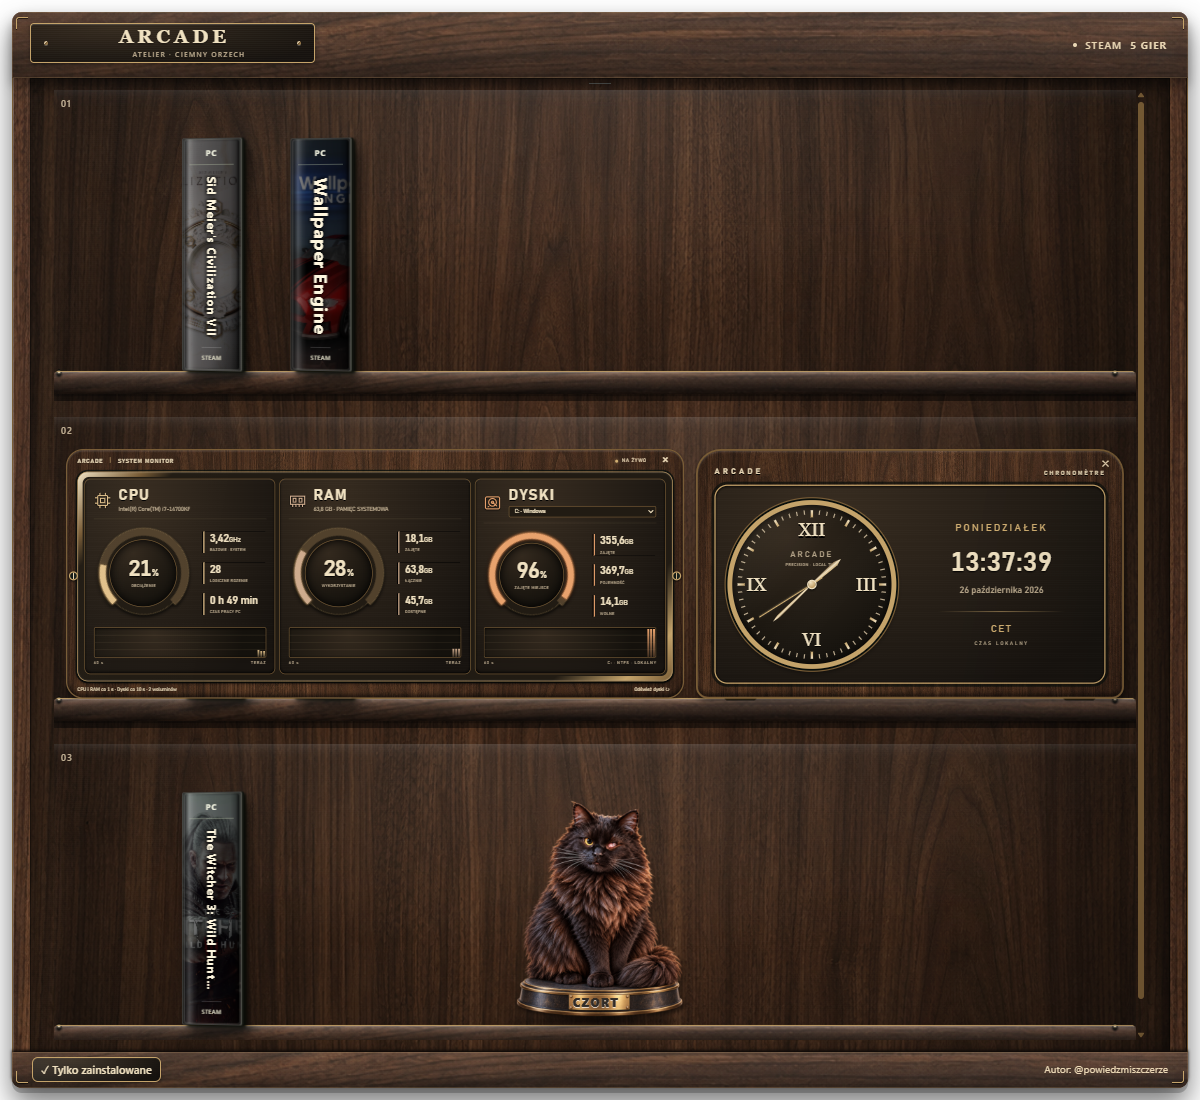
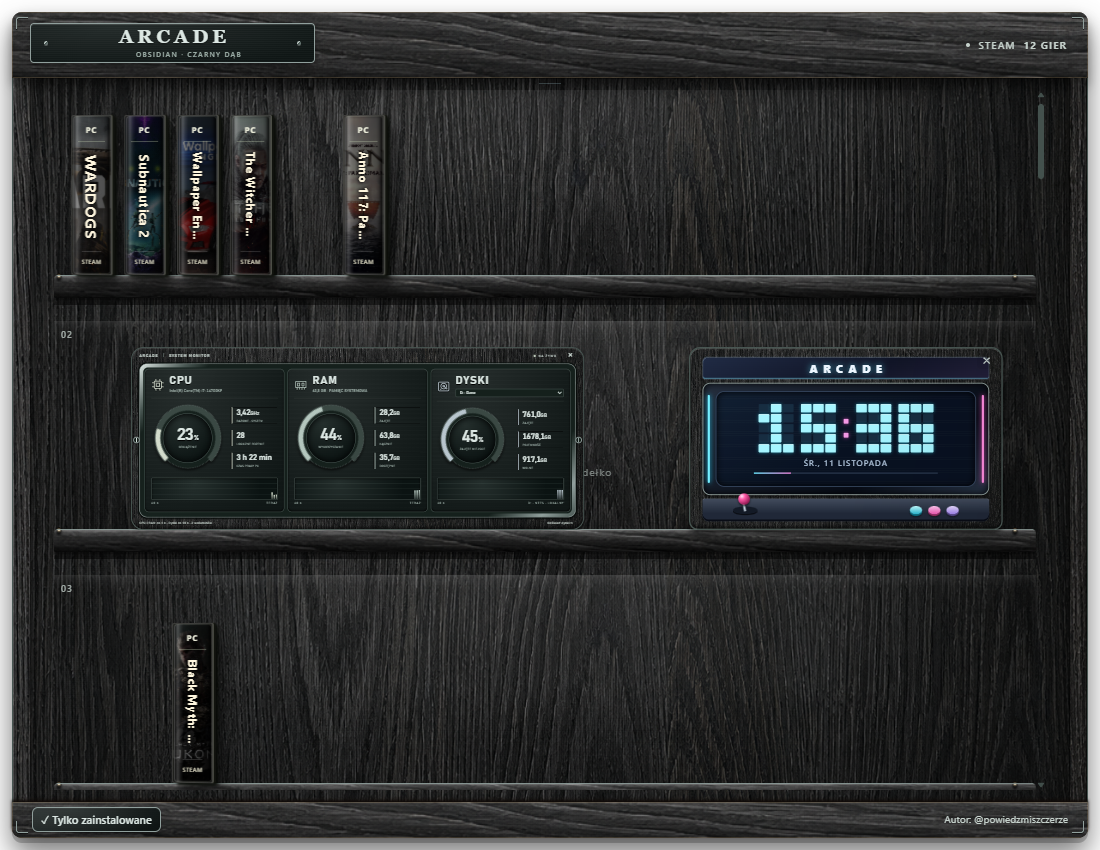
Show the new arcade clock in ARCADE 0.25.0

diff --git a/README.md b/README.md
@@ -4,7 +4,7 @@
 
 Biblioteka Steam i GOG jako przestrzenna półka na pulpicie Windows. Pudełka ustawiasz po swojemu, figurki zdobią regał, a zegar i monitor komputera stoją obok gier.
 
-**[Pobierz instalator ARCADE 0.24.0](https://github.com/codewojcik-arch/arcade-game-shelf/releases/download/v0.24.0/ARCADE-Setup-0.24.0-win-x64.exe)** · [Wersja ZIP](https://github.com/codewojcik-arch/arcade-game-shelf/releases/download/v0.24.0/ARCADE-0.24.0-win-x64.zip) · [Historia zmian](CHANGELOG.md)
+**[Pobierz instalator ARCADE 0.25.0](https://github.com/codewojcik-arch/arcade-game-shelf/releases/download/v0.25.0/ARCADE-Setup-0.25.0-win-x64.exe)** · [Wersja ZIP](https://github.com/codewojcik-arch/arcade-game-shelf/releases/download/v0.25.0/ARCADE-0.25.0-win-x64.zip) · [Historia zmian](CHANGELOG.md)
 
 ## Pytania i propozycje zmian
 
@@ -66,7 +66,7 @@ Dotychczasowe motywy Klasyczny, Night Shift, Aurora i Szlak Wilka zostały usuni
 
 Włącz **Zegar na półce** lub **Monitor komputera → Pokaż monitor** w menu obok zegara systemowego. Oba widgety przeciągniesz za górny pasek na inną półkę. Pozycje i widoczność są zapamiętywane; instrumenty dopasowują się do dostępnego miejsca.
 
-Zegar pokazuje wskazówki z płynnym sekundnikiem, cyfrową godzinę, polską datę i strefę Windows. Monitor prezentuje rzeczywiste obciążenie CPU, wykorzystanie RAM, czas pracy PC i zajętość wybranego dysku.
+Zegar arcade pokazuje lokalną godzinę pikselowymi cyframi, polską datę i postęp minuty. Neonowe listwy otaczają ekran, a cyfry przeskakują przy zmianie minuty. Monitor prezentuje rzeczywiste obciążenie CPU, wykorzystanie RAM, czas pracy PC i zajętość wybranego dysku.
 
 Panel **DYSKI** wykrywa dostępne lokalne woluminy Windows, np. C: i D:, oraz podłączone dyski USB. Pokazuje zajęte i wolne GB oraz pojemność. Zapamiętuje wybrany dysk, odświeża dane co 10 sekund i ma przycisk ręcznego odświeżania. Monitor działa bez dodatkowych programów do czujników.
 
@@ -84,7 +84,7 @@ Nowa ilustracja gracza i psotnego kota wita po uruchomieniu ARCADE: lekkie koły
 
 ## Instalacja i obsługa
 
-1. Pobierz **ARCADE-Setup-0.24.0-win-x64.exe** z sekcji Releases i uruchom instalator.
+1. Pobierz **ARCADE-Setup-0.25.0-win-x64.exe** z sekcji Releases i uruchom instalator.
 2. Przy aktualizacji wybierz dotychczasowy folder aplikacji. Ustawienia pozostają zachowane.
 3. Steruj aplikacją z jej ikony obok zegara Windows. Tam zmienisz motyw, widoczność kolekcji, autostart i sprawdzisz aktualizacje.
 

diff --git a/CHANGELOG.md b/CHANGELOG.md
@@ -1,5 +1,11 @@
 # Historia zmian
 
+## 0.25.0 — Zegar arcade i skalowanie półki
+
+- Zegar w obudowie automatu z pikselową godziną, neonowymi listwami, datą i animacją zmiany minuty zastępuje zegar wskazówkowy.
+- Figurki, statuetka rangi, zegar i monitor komputera dzielą dostępną szerokość półki i zmieniają rozmiar wraz z oknem.
+- Półka dopasowuje się do obszaru roboczego mniejszego monitora po przeniesieniu lub zmianie konfiguracji ekranów.
+
 ## 0.24.0 — Statuetka rangi VALORANT
 
 - Wybierz rangę ręcznie z menu ARCADE obok zegara Windows.
